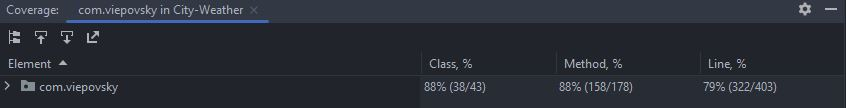
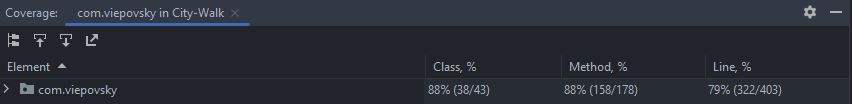
Update README.md fix wrong name, change screenshot

diff --git a/README.md b/README.md
@@ -14,7 +14,7 @@ The application currently uses the following frameworks and technologies:
 
 ## External APIs
 
-At the moment, the City Weather App uses two external APIs:
+At the moment, the City Walk App uses two external APIs:
 
 - Air Quality API to retrieve air quality for a given location.
 - Weather API to retrieve the current weather and a 13-day forecast for the given location.
